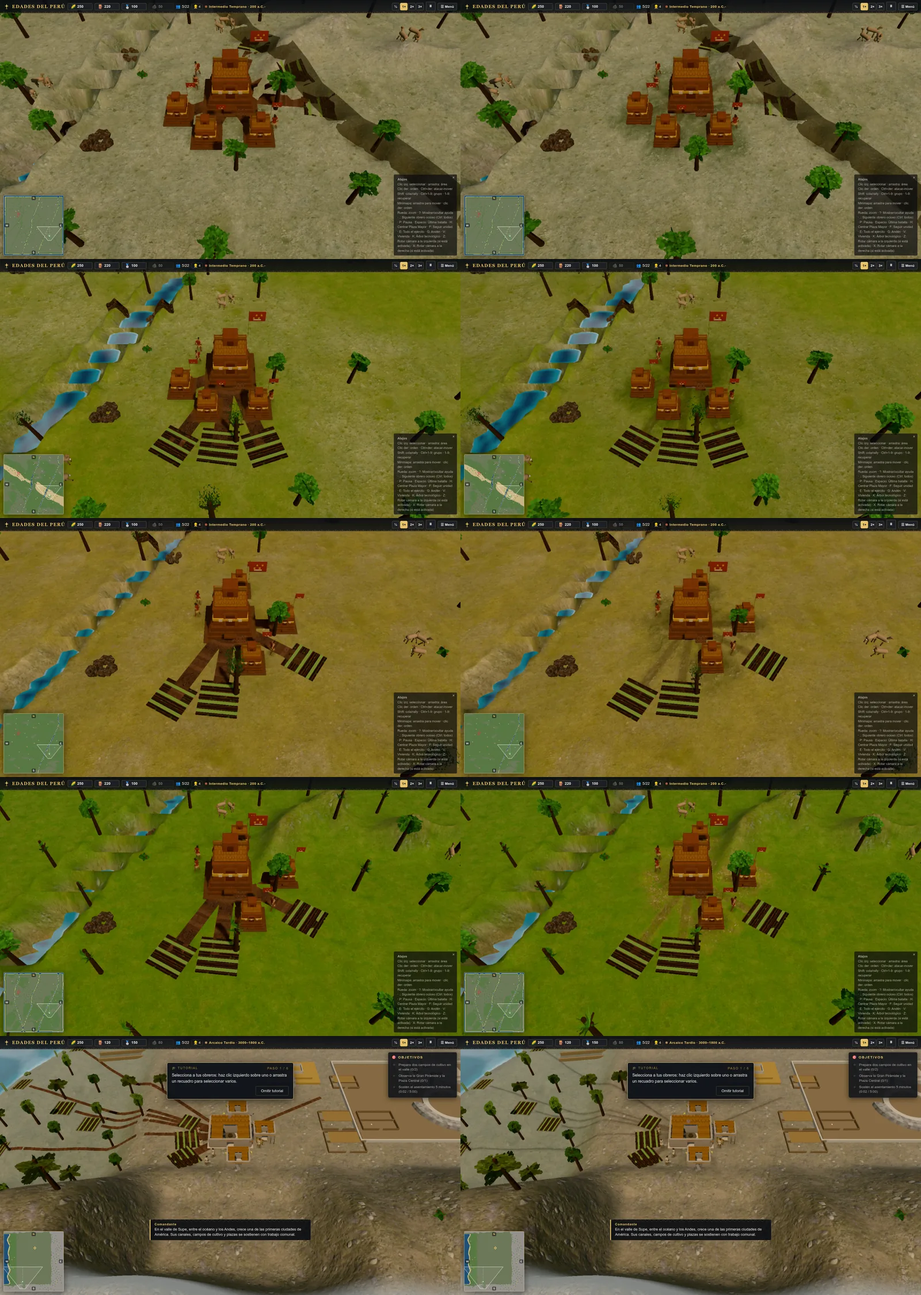
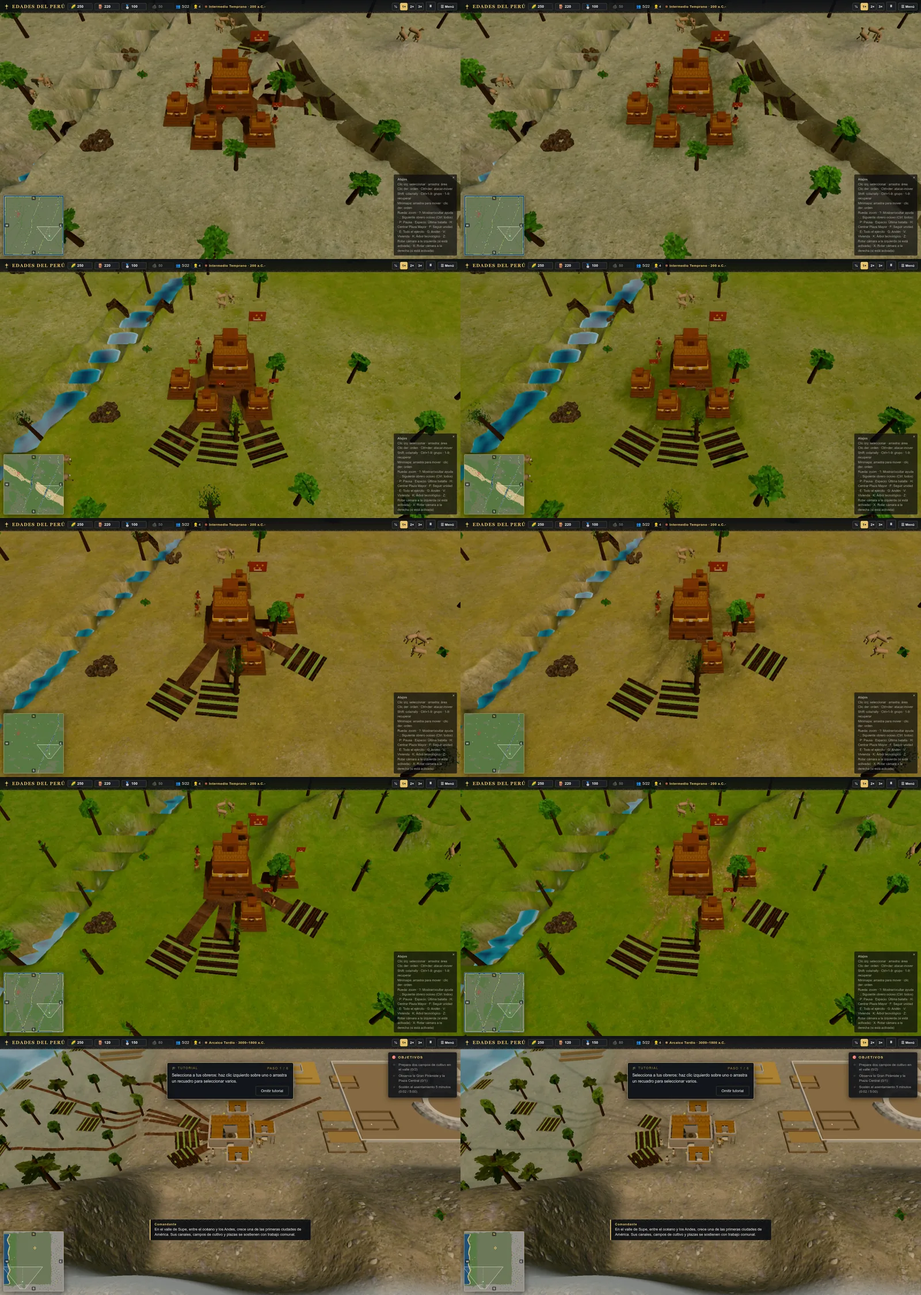
fix(terrain): composite wear, clear dead sites and fade road ribbons (#304)

diff --git a/src/rendering/Terrain.ts b/src/rendering/Terrain.ts
@@ -820,31 +820,51 @@ ${FOW_DIM_GLSL}
     );
   }
 
+  /** Restore the original splat under a removed building. */
+  clearWear(x: number, z: number, radius: number, strength = 1): void {
+    const pad = radius * 1.35;
+    this.paintSplatRegion(
+      { minX: x - pad, maxX: x + pad, minZ: z - pad, maxZ: z + pad },
+      (wx, wz) => Math.hypot(wx - x, wz - z),
+      radius,
+      strength,
+      'clear',
+    );
+  }
+
   /** Paint a dirt/gravel path under a polyline (settlement and mission roads). */
   paintPath(points: { x: number; z: number }[], width: number, strength = 0.8): void {
     if (points.length < 2) return;
     const radius = Math.max(0.35, width / 2);
     const pad = radius * 1.35;
     for (let i = 0; i < points.length - 1; i++) {
-      const a = points[i];
-      const b = points[i + 1];
-      const vx = b.x - a.x;
-      const vz = b.z - a.z;
-      const len2 = Math.max(1e-4, vx * vx + vz * vz);
-      this.paintSplatRegion(
-        {
-          minX: Math.min(a.x, b.x) - pad,
-          maxX: Math.max(a.x, b.x) + pad,
-          minZ: Math.min(a.z, b.z) - pad,
-          maxZ: Math.max(a.z, b.z) + pad,
-        },
-        (wx, wz) => {
-          const t = Math.max(0, Math.min(1, ((wx - a.x) * vx + (wz - a.z) * vz) / len2));
-          return Math.hypot(wx - (a.x + vx * t), wz - (a.z + vz * t));
-        },
-        radius,
-        strength,
-      );
+      const from = points[i];
+      const to = points[i + 1];
+      const length = Math.hypot(to.x - from.x, to.z - from.z);
+      const steps = Math.max(1, Math.ceil(length / 2));
+      for (let step = 0; step < steps; step++) {
+        const t0 = step / steps;
+        const t1 = (step + 1) / steps;
+        const a = { x: from.x + (to.x - from.x) * t0, z: from.z + (to.z - from.z) * t0 };
+        const b = { x: from.x + (to.x - from.x) * t1, z: from.z + (to.z - from.z) * t1 };
+        const vx = b.x - a.x;
+        const vz = b.z - a.z;
+        const len2 = Math.max(1e-4, vx * vx + vz * vz);
+        this.paintSplatRegion(
+          {
+            minX: Math.min(a.x, b.x) - pad,
+            maxX: Math.max(a.x, b.x) + pad,
+            minZ: Math.min(a.z, b.z) - pad,
+            maxZ: Math.max(a.z, b.z) + pad,
+          },
+          (wx, wz) => {
+            const t = Math.max(0, Math.min(1, ((wx - a.x) * vx + (wz - a.z) * vz) / len2));
+            return Math.hypot(wx - (a.x + vx * t), wz - (a.z + vz * t));
+          },
+          radius,
+          strength,
+        );
+      }
     }
   }
 
@@ -853,6 +873,7 @@ ${FOW_DIM_GLSL}
     distance: (wx: number, wz: number) => number,
     radius: number,
     strength: number,
+    mode: 'wear' | 'clear' = 'wear',
   ): void {
     const size = this.splat.size;
     const worldSize = this.size;
@@ -873,10 +894,19 @@ ${FOW_DIM_GLSL}
         const weight = Math.max(0, Math.min(1, strength * edge));
         if (weight <= 0.001) continue;
         const i = (tz * size + tx) * 4;
-        const grass = (base[i] / 255) * (1 - weight);
-        const dirt = Math.min(1, base[i + 1] / 255 + weight);
-        const sand = (base[i + 2] / 255) * (1 - weight * 0.65);
-        const rock = (base[i + 3] / 255) * (1 - weight * 0.5);
+        if (mode === 'clear') {
+          const keep = 1 - weight;
+          out[i] = Math.round(base[i] + (out[i] - base[i]) * keep);
+          out[i + 1] = Math.round(base[i + 1] + (out[i + 1] - base[i + 1]) * keep);
+          out[i + 2] = Math.round(base[i + 2] + (out[i + 2] - base[i + 2]) * keep);
+          out[i + 3] = Math.round(base[i + 3] + (out[i + 3] - base[i + 3]) * keep);
+          changed = true;
+          continue;
+        }
+        const grass = (out[i] / 255) * (1 - weight);
+        const dirt = Math.min(1, out[i + 1] / 255 + weight);
+        const sand = (out[i + 2] / 255) * (1 - weight * 0.65);
+        const rock = (out[i + 3] / 255) * (1 - weight * 0.5);
         const sum = grass + dirt + sand + rock;
         const inv = sum > 0 ? 1 / sum : 1;
         out[i] = Math.round(grass * inv * 255);

diff --git a/src/rendering/CulturalLandscape.ts b/src/rendering/CulturalLandscape.ts
@@ -140,7 +140,7 @@ export class CulturalLandscape {
           buckets,
           feature,
           pts,
-          feature === 'road' || feature === 'path' ? width * 0.55 : width,
+          feature === 'road' || feature === 'path' ? width * 0.35 : width,
           terrain,
           off,
         );
@@ -159,14 +159,14 @@ export class CulturalLandscape {
         color: '#8a6a44',
         roughness: 1,
         transparent: true,
-        opacity: 0.35,
+        opacity: 0.25,
         depthWrite: false,
       }),
       path: new THREE.MeshStandardMaterial({
         color: '#9a8464',
         roughness: 1,
         transparent: true,
-        opacity: 0.35,
+        opacity: 0.25,
         depthWrite: false,
       }),
       canal: new THREE.MeshStandardMaterial({ color: '#1a8a9a', roughness: 0.2, transparent: true, opacity: 0.72 }),

diff --git a/src/rendering/SettlementOverlay.ts b/src/rendering/SettlementOverlay.ts
@@ -50,14 +50,14 @@ export class SettlementOverlay {
       color: '#8a6a44',
       roughness: 1,
       transparent: true,
-      opacity: 0.3,
+      opacity: 0.25,
       depthWrite: false,
     });
     applyGeneratedPbr(roadMat, 'ground_road');
     this.add(
       'roads',
       plan.roads
-        .map((r) => roadGeometry(r, terrain.getHeight.bind(terrain), this.roadWidth * 0.55))
+        .map((r) => roadGeometry(r, terrain.getHeight.bind(terrain), this.roadWidth * 0.18))
         .filter((g): g is THREE.BufferGeometry => g !== null),
       roadMat,
     );

diff --git a/src/core/RuntimeController.ts b/src/core/RuntimeController.ts
@@ -900,6 +900,7 @@ export class RuntimeController {
           this.game.obstacleHandles.delete(b.id);
         }
         if (b.view) this.spawnDeathFx(b.view, 'building', b.radius, () => detachBuilding(b));
+        this.game.terrain.clearWear(b.pos.x, b.pos.z, b.radius * 1.6);
         this.game.buildings.delete(id);
       }
     }

diff --git a/src/boot.ts b/src/boot.ts
@@ -251,7 +251,7 @@ export async function boot(): Promise<void> {
                 b.attach(game.scene);
                 b.beginConstruction();
                 b.addBuildProgress(9999);
-                game.buildings.set(b.id, b);
+                game.addBuilding(b);
               }
             }
           }
